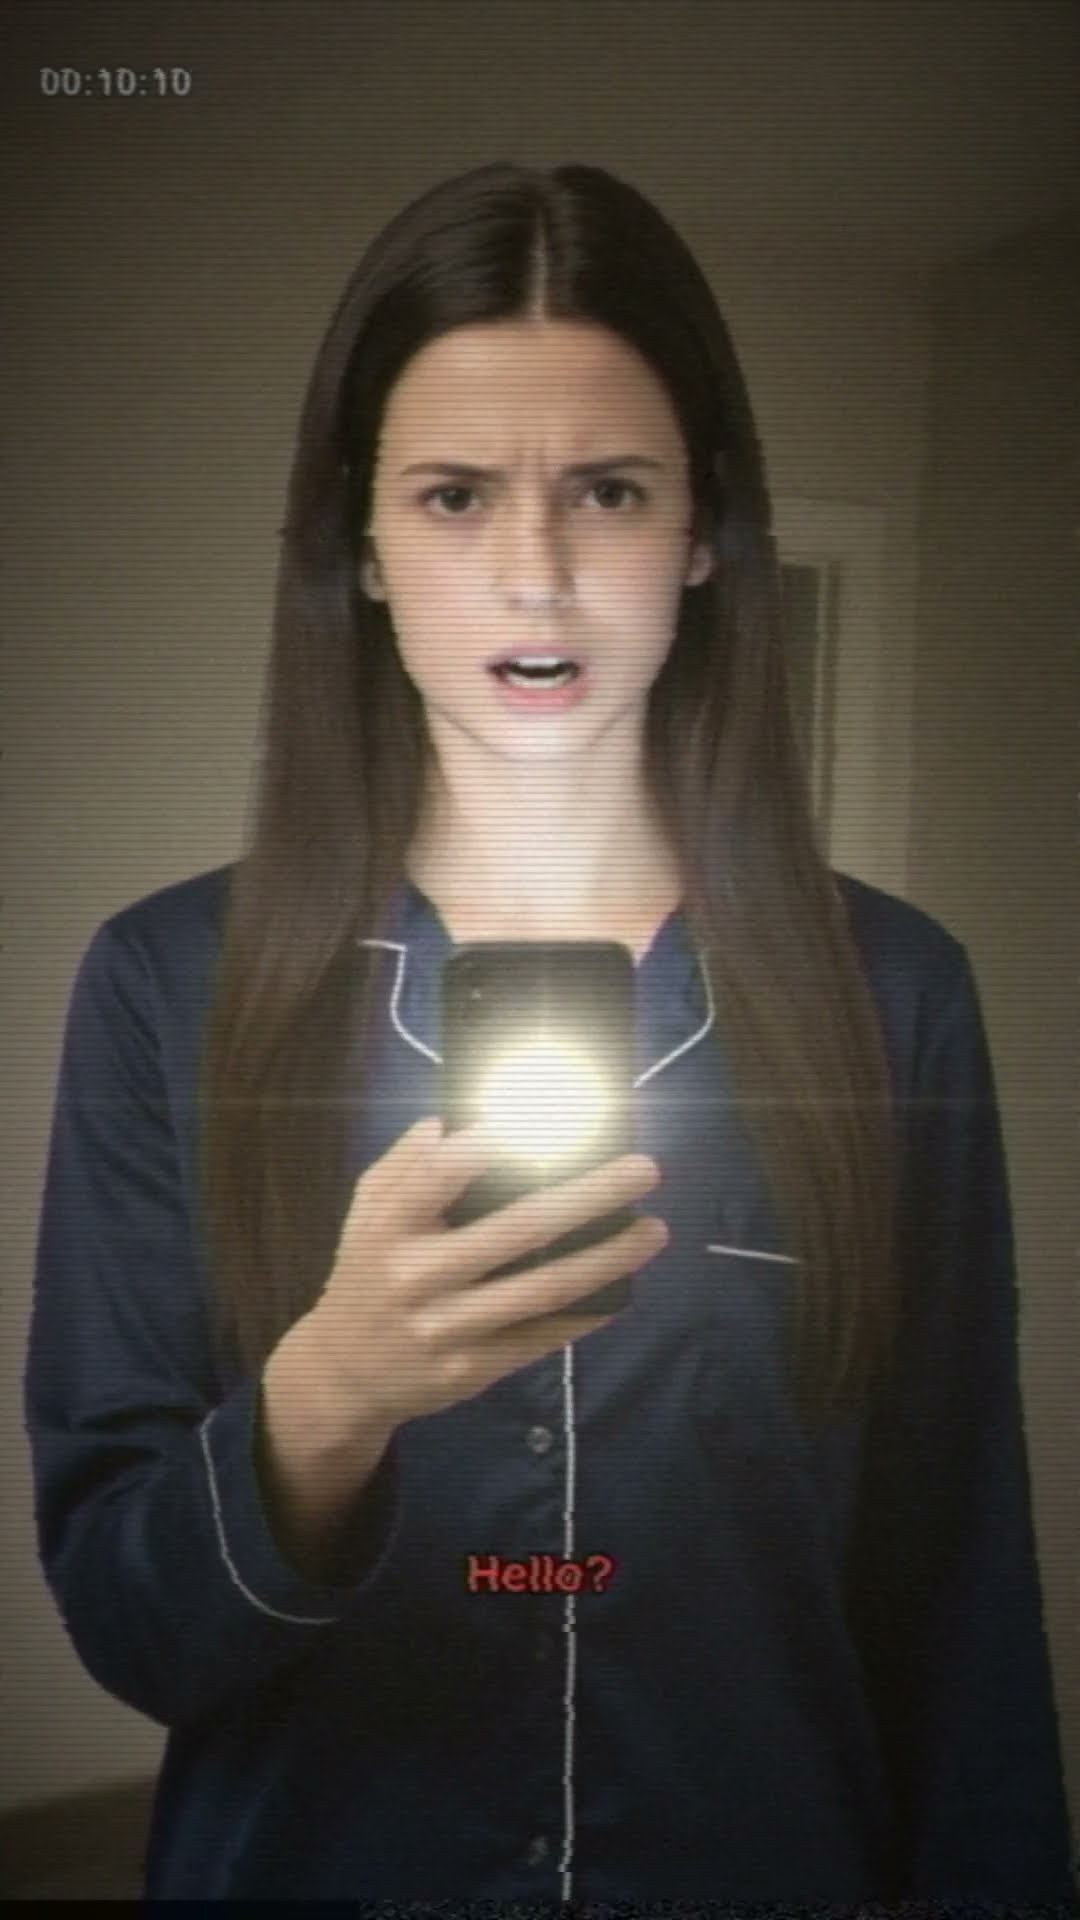
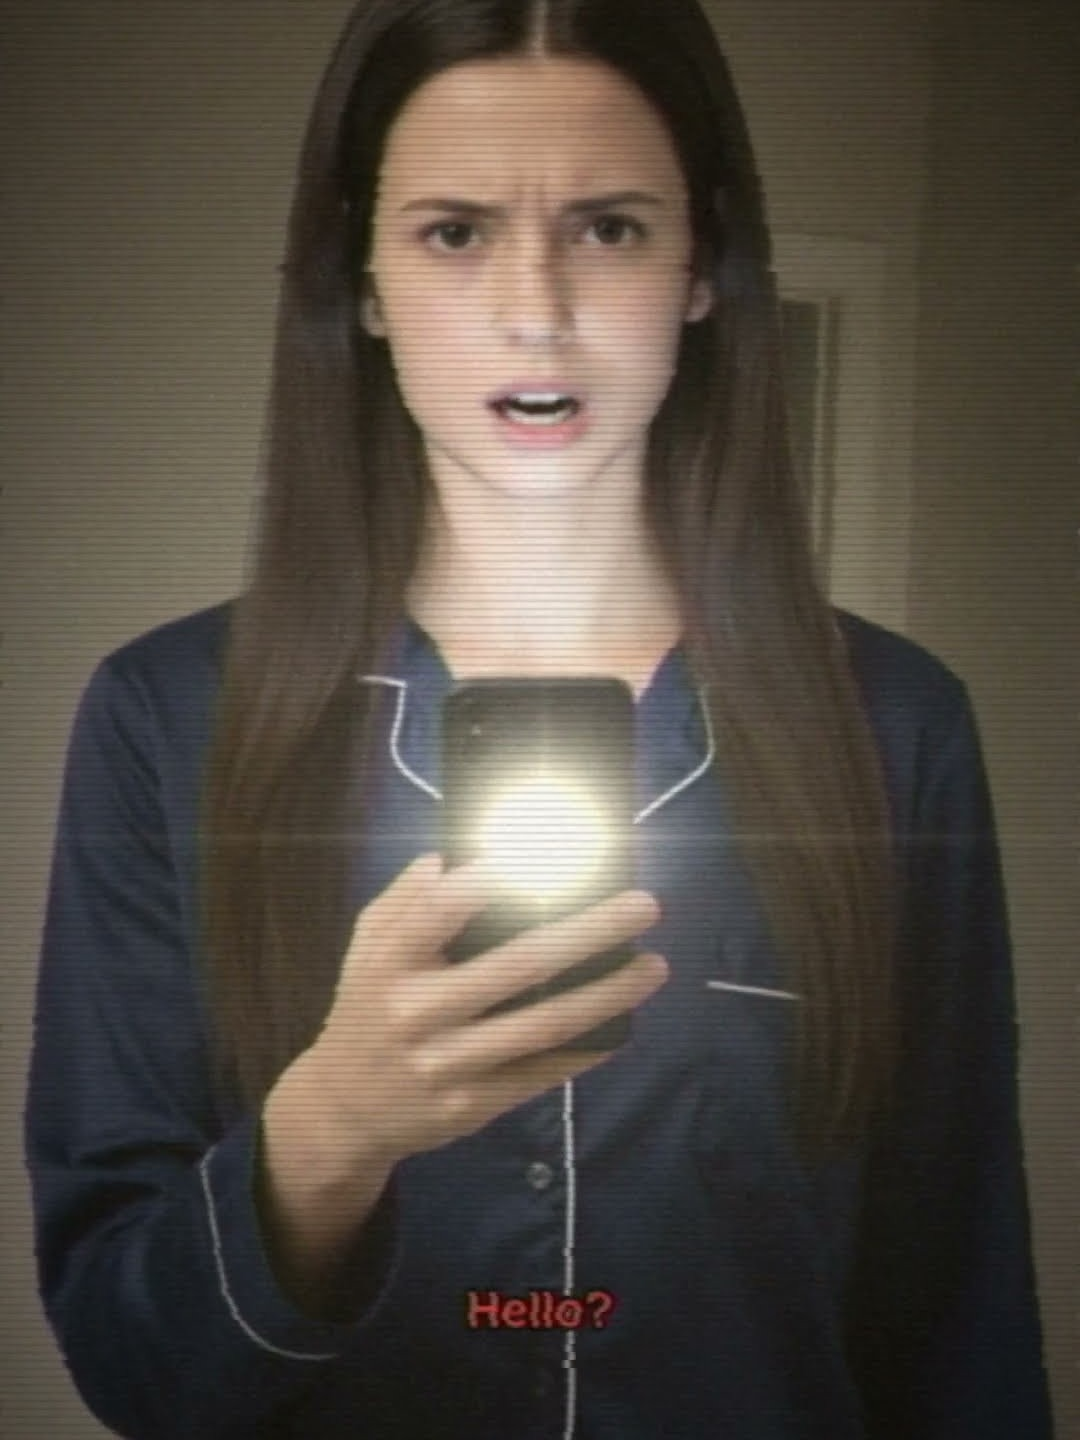
Reword /film around the generation experiment and shorten the poster
The h1 is "Short films"; the <title> carries the longer line, since the h1
alone is too short to read as a search result. The lead and the search
description now say what the films are for: pushing AI generation toward a
film that stays stable, the same actor and room shot after shot.

The poster source is cropped a quarter shorter, 3:4 rather than 9:16, so
the card is not dominated by one tall image.

diff --git a/public/film/index.html b/public/film/index.html
@@ -3,8 +3,8 @@
 <head>
   <meta charset="utf-8" />
   <meta name="viewport" content="width=device-width, initial-scale=1" />
-  <title>Short films on YouTube · Cyrus Sarkosh</title>
-  <meta name="description" content="Short films by Cyrus Sarkosh, built frame by frame from generated stills. Watch each one on YouTube." />
+  <title>Short films: experiments in stable AI generation · Cyrus Sarkosh</title>
+  <meta name="description" content="Short films by Cyrus Sarkosh, experiments in getting AI video generation to hold the same actor and the same room from shot to shot." />
   <link rel="canonical" href="https://csarko.sh/film" />
 
   <meta property="og:type" content="website" />
@@ -12,14 +12,14 @@
   <meta property="og:locale" content="en_US" />
   <meta property="og:url" content="https://csarko.sh/film" />
   <meta property="og:title" content="Film" />
-  <meta property="og:description" content="Short films by Cyrus Sarkosh, built frame by frame from generated stills. Watch each one on YouTube." />
+  <meta property="og:description" content="Short films by Cyrus Sarkosh, experiments in getting AI video generation to hold the same actor and the same room from shot to shot." />
   <meta property="og:image" content="https://csarko.sh/og-image.jpg" />
   <meta property="og:image:width" content="1200" />
   <meta property="og:image:height" content="630" />
   <meta property="og:image:alt" content="Cyrus Sarkosh, Senior Software Engineer in New York, with his portrait" />
   <meta name="twitter:card" content="summary_large_image" />
   <meta name="twitter:title" content="Film" />
-  <meta name="twitter:description" content="Short films by Cyrus Sarkosh, built frame by frame from generated stills. Watch each one on YouTube." />
+  <meta name="twitter:description" content="Short films by Cyrus Sarkosh, experiments in getting AI video generation to hold the same actor and the same room from shot to shot." />
   <meta name="twitter:image" content="https://csarko.sh/og-image.jpg" />
   <meta name="twitter:image:alt" content="Cyrus Sarkosh, Senior Software Engineer in New York, with his portrait" />
 
@@ -44,7 +44,7 @@
       "@id": "https://csarko.sh/film#page",
       "url": "https://csarko.sh/film",
       "name": "Film",
-      "description": "Short films by Cyrus Sarkosh, built frame by frame from generated stills. Watch each one on YouTube.",
+      "description": "Short films by Cyrus Sarkosh, experiments in getting AI video generation to hold the same actor and the same room from shot to shot.",
       "isPartOf": {
         "@id": "https://csarko.sh/#website"
       },
@@ -355,17 +355,17 @@
   <main id="top" class="wrap docs-index" tabindex="-1">
     <header class="doc-header">
       <p class="eyebrow">Film</p>
-      <h1>Short films on YouTube</h1>
-      <p class="lead">Short films I make away from the keyboard, built frame by frame from generated stills. Each one is on YouTube.</p>
+      <h1>Short films</h1>
+      <p class="lead">An experiment in how far AI generation can be pushed toward a film that stays stable: the same actor, the same room, shot after shot. Each result is on YouTube.</p>
     </header>
     <ul class="film-list" role="list">
       <li class="card film-card">
         <div class="film-poster">
           <!-- generated:film-poster:who-is-standing-in-my-hallway -->
           <picture>
-            <source type="image/avif" srcset="/assets/film-who-is-standing-in-my-hallway-200.e1744fb0.avif 200w, /assets/film-who-is-standing-in-my-hallway-240.88ed3848.avif 240w, /assets/film-who-is-standing-in-my-hallway-400.990e0955.avif 400w, /assets/film-who-is-standing-in-my-hallway-480.c829bcff.avif 480w" sizes="(max-width: 640px) 200px, 240px" />
-            <source type="image/webp" srcset="/assets/film-who-is-standing-in-my-hallway-200.c63a0379.webp 200w, /assets/film-who-is-standing-in-my-hallway-240.d39d3ecc.webp 240w, /assets/film-who-is-standing-in-my-hallway-400.be670836.webp 400w, /assets/film-who-is-standing-in-my-hallway-480.b9c0ba39.webp 480w" sizes="(max-width: 640px) 200px, 240px" />
-            <img src="/assets/film-who-is-standing-in-my-hallway-240.efe99a63.jpg" srcset="/assets/film-who-is-standing-in-my-hallway-200.058057f1.jpg 200w, /assets/film-who-is-standing-in-my-hallway-240.efe99a63.jpg 240w, /assets/film-who-is-standing-in-my-hallway-400.02ffbc90.jpg 400w, /assets/film-who-is-standing-in-my-hallway-480.2bc1c474.jpg 480w" sizes="(max-width: 640px) 200px, 240px" width="240" height="427" alt="A woman in dark pyjamas, lit from below by her phone, staring past the camera in a dim hallway." loading="lazy" decoding="async" />
+            <source type="image/avif" srcset="/assets/film-who-is-standing-in-my-hallway-200.b5e0f11c.avif 200w, /assets/film-who-is-standing-in-my-hallway-240.a25dd71f.avif 240w, /assets/film-who-is-standing-in-my-hallway-400.5e4ecbfa.avif 400w, /assets/film-who-is-standing-in-my-hallway-480.79c4229f.avif 480w" sizes="(max-width: 640px) 200px, 240px" />
+            <source type="image/webp" srcset="/assets/film-who-is-standing-in-my-hallway-200.2f377770.webp 200w, /assets/film-who-is-standing-in-my-hallway-240.06bed0a3.webp 240w, /assets/film-who-is-standing-in-my-hallway-400.f31c03e0.webp 400w, /assets/film-who-is-standing-in-my-hallway-480.59d8199d.webp 480w" sizes="(max-width: 640px) 200px, 240px" />
+            <img src="/assets/film-who-is-standing-in-my-hallway-240.b0a536b6.jpg" srcset="/assets/film-who-is-standing-in-my-hallway-200.df13b2a7.jpg 200w, /assets/film-who-is-standing-in-my-hallway-240.b0a536b6.jpg 240w, /assets/film-who-is-standing-in-my-hallway-400.0b8edb18.jpg 400w, /assets/film-who-is-standing-in-my-hallway-480.ed57257f.jpg 480w" sizes="(max-width: 640px) 200px, 240px" width="240" height="320" alt="A woman in dark pyjamas, lit from below by her phone, staring past the camera in a dim hallway." loading="lazy" decoding="async" />
           </picture>
           <!-- /generated:film-poster:who-is-standing-in-my-hallway -->
         </div>

diff --git a/public/index.html b/public/index.html
@@ -546,9 +546,9 @@
           <div class="film-poster">
             <!-- generated:film-poster:who-is-standing-in-my-hallway -->
             <picture>
-              <source type="image/avif" srcset="assets/film-who-is-standing-in-my-hallway-200.e1744fb0.avif 200w, assets/film-who-is-standing-in-my-hallway-240.88ed3848.avif 240w, assets/film-who-is-standing-in-my-hallway-400.990e0955.avif 400w, assets/film-who-is-standing-in-my-hallway-480.c829bcff.avif 480w" sizes="(max-width: 640px) 200px, 240px" />
-              <source type="image/webp" srcset="assets/film-who-is-standing-in-my-hallway-200.c63a0379.webp 200w, assets/film-who-is-standing-in-my-hallway-240.d39d3ecc.webp 240w, assets/film-who-is-standing-in-my-hallway-400.be670836.webp 400w, assets/film-who-is-standing-in-my-hallway-480.b9c0ba39.webp 480w" sizes="(max-width: 640px) 200px, 240px" />
-              <img src="assets/film-who-is-standing-in-my-hallway-240.efe99a63.jpg" srcset="assets/film-who-is-standing-in-my-hallway-200.058057f1.jpg 200w, assets/film-who-is-standing-in-my-hallway-240.efe99a63.jpg 240w, assets/film-who-is-standing-in-my-hallway-400.02ffbc90.jpg 400w, assets/film-who-is-standing-in-my-hallway-480.2bc1c474.jpg 480w" sizes="(max-width: 640px) 200px, 240px" width="240" height="427" alt="A woman in dark pyjamas, lit from below by her phone, staring past the camera in a dim hallway." loading="lazy" decoding="async" />
+              <source type="image/avif" srcset="assets/film-who-is-standing-in-my-hallway-200.b5e0f11c.avif 200w, assets/film-who-is-standing-in-my-hallway-240.a25dd71f.avif 240w, assets/film-who-is-standing-in-my-hallway-400.5e4ecbfa.avif 400w, assets/film-who-is-standing-in-my-hallway-480.79c4229f.avif 480w" sizes="(max-width: 640px) 200px, 240px" />
+              <source type="image/webp" srcset="assets/film-who-is-standing-in-my-hallway-200.2f377770.webp 200w, assets/film-who-is-standing-in-my-hallway-240.06bed0a3.webp 240w, assets/film-who-is-standing-in-my-hallway-400.f31c03e0.webp 400w, assets/film-who-is-standing-in-my-hallway-480.59d8199d.webp 480w" sizes="(max-width: 640px) 200px, 240px" />
+              <img src="assets/film-who-is-standing-in-my-hallway-240.b0a536b6.jpg" srcset="assets/film-who-is-standing-in-my-hallway-200.df13b2a7.jpg 200w, assets/film-who-is-standing-in-my-hallway-240.b0a536b6.jpg 240w, assets/film-who-is-standing-in-my-hallway-400.0b8edb18.jpg 400w, assets/film-who-is-standing-in-my-hallway-480.ed57257f.jpg 480w" sizes="(max-width: 640px) 200px, 240px" width="240" height="320" alt="A woman in dark pyjamas, lit from below by her phone, staring past the camera in a dim hallway." loading="lazy" decoding="async" />
             </picture>
             <!-- /generated:film-poster:who-is-standing-in-my-hallway -->
           </div>
